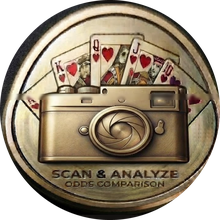
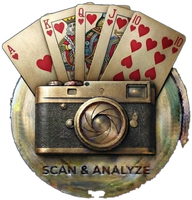
Use the new coin artwork, keep cards fully intact, add a button label (12)
Re-processed from the latest reference image: background removed via a
brightness-thresholded connected-component mask anchored on the
coin/cards cluster (not an ellipse/vignette - that approach was fading
out the card tips, which the cards' natural fan shape doesn't fit).
Dropped the circular clip on the button entirely, since the cards
deliberately extend above the coin's own rim - clipping to a circle cut
them off. The button now just shows the artwork's natural silhouette
(transparent background) at its own aspect ratio.

Added the "מחשבון סיכויי פוקר" label next to the button.

diff --git a/static/index.html b/static/index.html
@@ -3765,9 +3765,10 @@ function renderTable(gameId){
       </div>
     </div>
     ${!allCashedOut ? `
-    <div style="display:flex;justify-content:flex-end;padding:0 20px 10px;">
-      <button class="icon-btn" data-open-poker-odds title="מה הסיכויים שלי" style="flex-shrink:0;width:44px;height:44px;border-radius:50%;padding:0;overflow:hidden;display:inline-flex;align-items:center;justify-content:center;">
-        <img src="/static/odds-coin.png" style="width:100%;height:100%;object-fit:cover;display:block;">
+    <div style="display:flex;justify-content:flex-end;align-items:center;gap:8px;padding:0 20px 10px;">
+      <span style="color:var(--muted);font-size:12px;">מחשבון סיכויי פוקר</span>
+      <button class="icon-btn" data-open-poker-odds title="מה הסיכויים שלי" style="flex-shrink:0;width:48px;height:auto;background:none;border:none;padding:0;display:inline-flex;align-items:center;justify-content:center;">
+        <img src="/static/odds-coin.png" style="width:48px;height:auto;display:block;">
       </button>
     </div>` : ""}
     <div class="poker-table-wrap">
